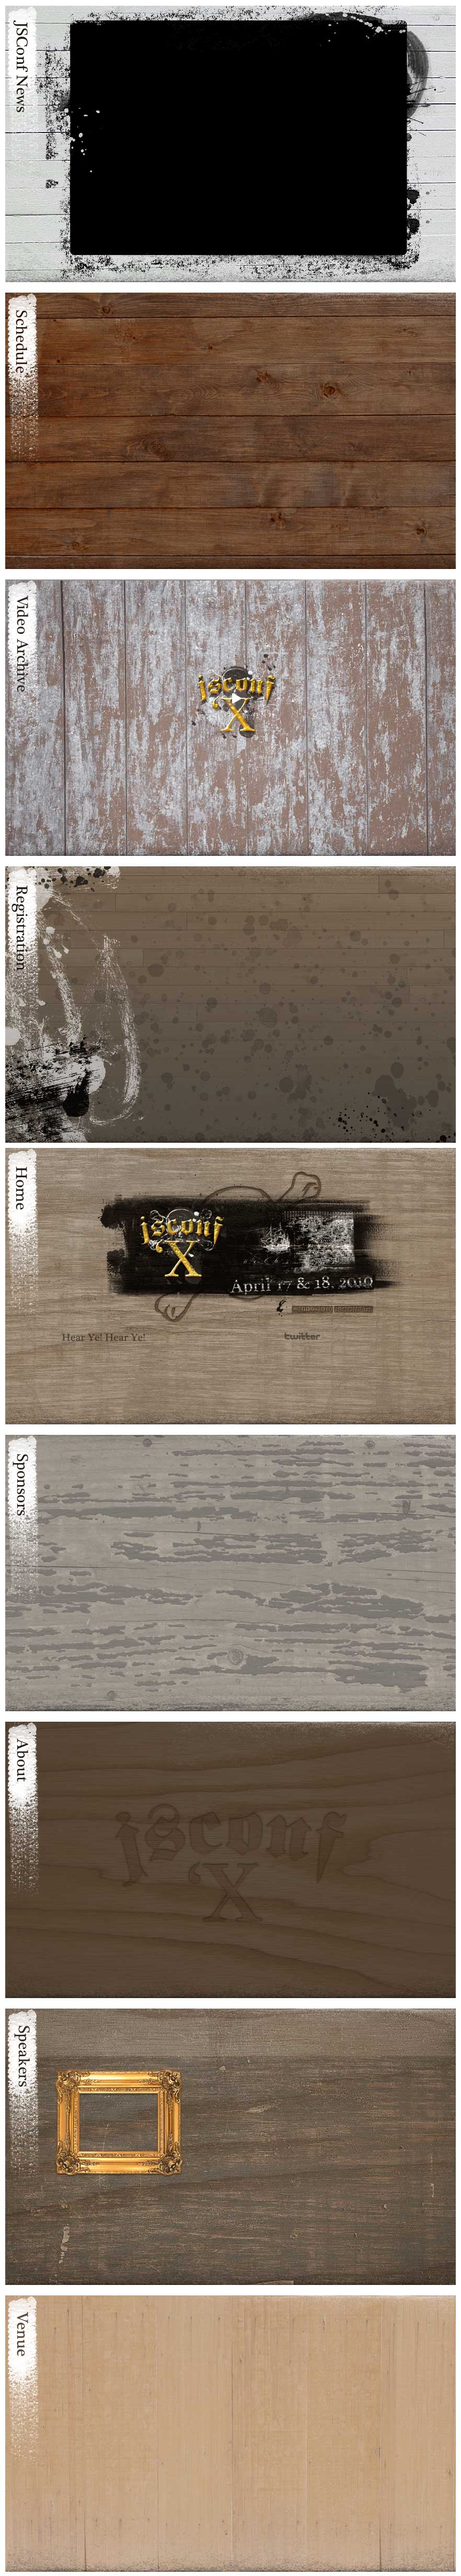
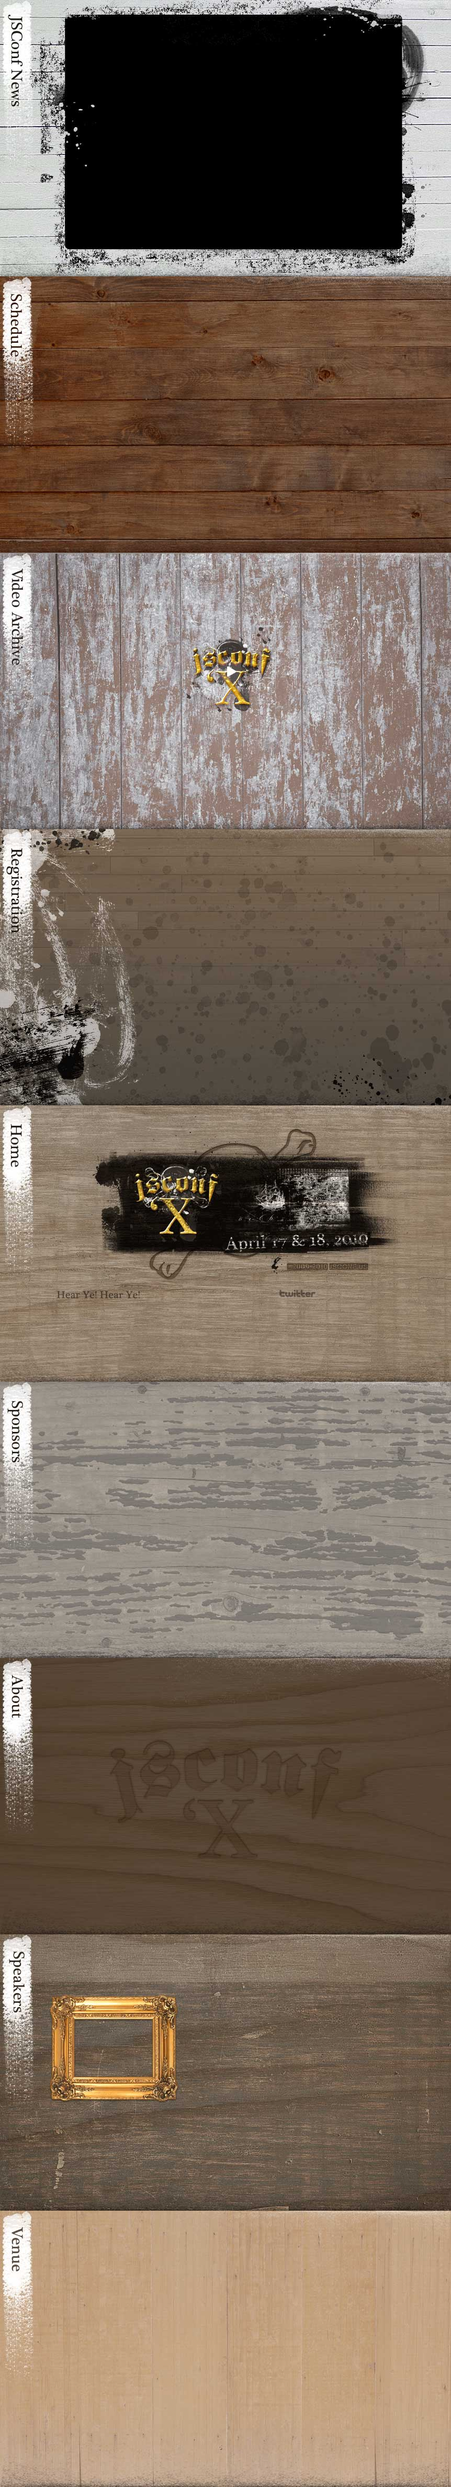
Diet time

Changed region(s): [[0.0, 0.0, 1.0, 1.0], [0.2715, 0.1557, 0.3016, 0.1869]]

diff --git a/public/2010/stylesheets/style.css b/public/2010/stylesheets/style.css
@@ -101,39 +101,39 @@ margin: 8px 0px;
 
 
 #articles {
-    background: transparent url(../images/jsconfsprite.png) -10px -165px no-repeat;
+    background: transparent url(../images/panels.jpg) 0px 0px no-repeat;
 }
 
 #schedule {
-    background: transparent url(../images/jsconfsprite.png) -10px -713px no-repeat;
+    background: transparent url(../images/panels.jpg) 0px -528px no-repeat;
 }
 #home {
-background: transparent url(../images/jsconfsprite.png) -10px -3299px no-repeat;
+background: transparent url(../images/panels.jpg) 0px -2112px no-repeat;
 }
 #home h1 { display:none;}
 #videos {
-    background: transparent url(../images/jsconfsprite.png) -10px -1261px no-repeat;
+    background: transparent url(../images/panels.jpg) 0px -1056px no-repeat;
 }
 
 
 #register {
-    background: transparent url(../images/jsconfsprite.png) -10px -1809px no-repeat;
+    background: transparent url(../images/panels.jpg) 0px -1584px no-repeat;
 }
 
 #sponsors {
-    background: transparent url(../images/jsconfsprite.png) -10px -3847px no-repeat;
+    background: transparent url(../images/panels.jpg) 0px -2640px no-repeat;
 }
 
 #about {
-    background: transparent url(../images/jsconfsprite.png) -10px -4395px no-repeat;
+    background: transparent url(../images/panels.jpg) 0px -3168px no-repeat;
 }
 
 #speakers {
-    background: transparent url(../images/jsconfsprite.png) -10px -4943px no-repeat;
+    background: transparent url(../images/panels.jpg) 0px -3696px no-repeat;
 }
 
 #venue {
-    background: transparent url(../images/jsconfsprite.png) -10px -5491px no-repeat;
+    background: transparent url(../images/panels.jpg) 0px -4224px no-repeat;
 }
 
 
